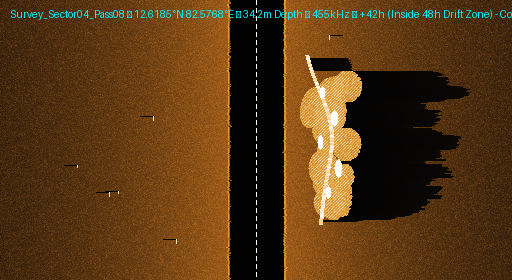
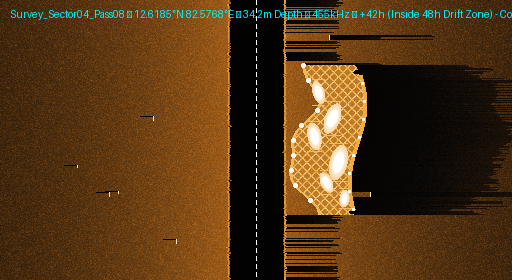
fix(sonar): restore exact net structure and remove only the text annotation

Changed region(s): [[0.5312, 0.0, 1.0, 1.0]]

diff --git a/mobile/dist/_expo/static/js/web/index-8685f458f5e2cc9ac19f7b16bf1856fc.js b/mobile/dist/_expo/static/js/web/index-8685f458f5e2cc9ac19f7b16bf1856fc.js
@@ -225,5 +225,5 @@ __d(function(_g,r,i,_a,_m,_e,_d){
    */
 'use strict';var e=r(_d[0]),o=Symbol.for("react.element"),t=Symbol.for("react.fragment"),n=Object.prototype.hasOwnProperty,_=e.__SECRET_INTERNALS_DO_NOT_USE_OR_YOU_WILL_BE_FIRED.ReactCurrentOwner,f={key:!0,ref:!0,__self:!0,__source:!0};function a(e,t,a){var l,s={},u=null,y=null;for(l in void 0!==a&&(u=""+a),void 0!==t.key&&(u=""+t.key),void 0!==t.ref&&(y=t.ref),t)n.call(t,l)&&!f.hasOwnProperty(l)&&(s[l]=t[l]);if(e&&e.defaultProps)for(l in t=e.defaultProps)void 0===s[l]&&(s[l]=t[l]);return{$$typeof:o,type:e,key:u,ref:y,props:s,_owner:_.current}}_e.Fragment=t,_e.jsx=a,_e.jsxs=a},180,[16]);
 __d(function(g,r,i,a,m,e,d){m.exports=r(d[0]).registerAsset({__packager_asset:!0,httpServerLocation:"/assets/assets",width:287,height:287,scales:[1],hash:"69085fca5c8345dc0a4706af1887a21b",name:"logo.69085fca5c8345dc0a4706af1887a21b",type:"png",fileHashes:["69085fca5c8345dc0a4706af1887a21b"]})},181,[172]);
-__d(function(e,s,f,a,t,b,h){t.exports=s(h[0]).registerAsset({__packager_asset:!0,httpServerLocation:"/assets/assets",width:512,height:280,scales:[1],hash:"b11582b8f34b8fa3d97381f97bef37f2",name:"sonar_echogram.b11582b8f34b8fa3d97381f97bef37f2",type:"png",fileHashes:["b11582b8f34b8fa3d97381f97bef37f2"]})},182,[172]);
+__d(function(a,s,e,t,c,h,r){c.exports=s(r[0]).registerAsset({__packager_asset:!0,httpServerLocation:"/assets/assets",width:512,height:280,scales:[1],hash:"b31735c1a7d4c7a0768925444a874191",name:"sonar_echogram.b31735c1a7d4c7a0768925444a874191",type:"png",fileHashes:["b31735c1a7d4c7a0768925444a874191"]})},182,[172]);
 __r(0);

diff --git a/mobile/dist/index.html b/mobile/dist/index.html
@@ -32,6 +32,6 @@
     </noscript>
     <!-- The root element for your Expo app. -->
     <div id="root"></div>
-  <script src="/_expo/static/js/web/index-d07c73257f5b333fc6028ccac1d58f87.js" defer></script>
+  <script src="/_expo/static/js/web/index-8685f458f5e2cc9ac19f7b16bf1856fc.js" defer></script>
 </body>
 </html>
